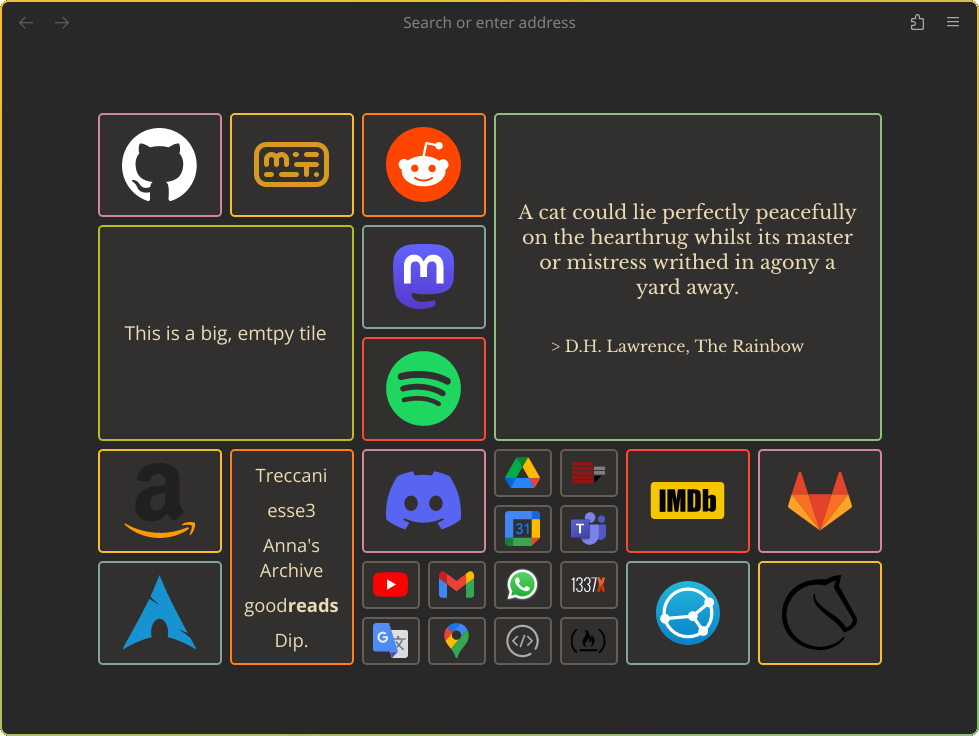
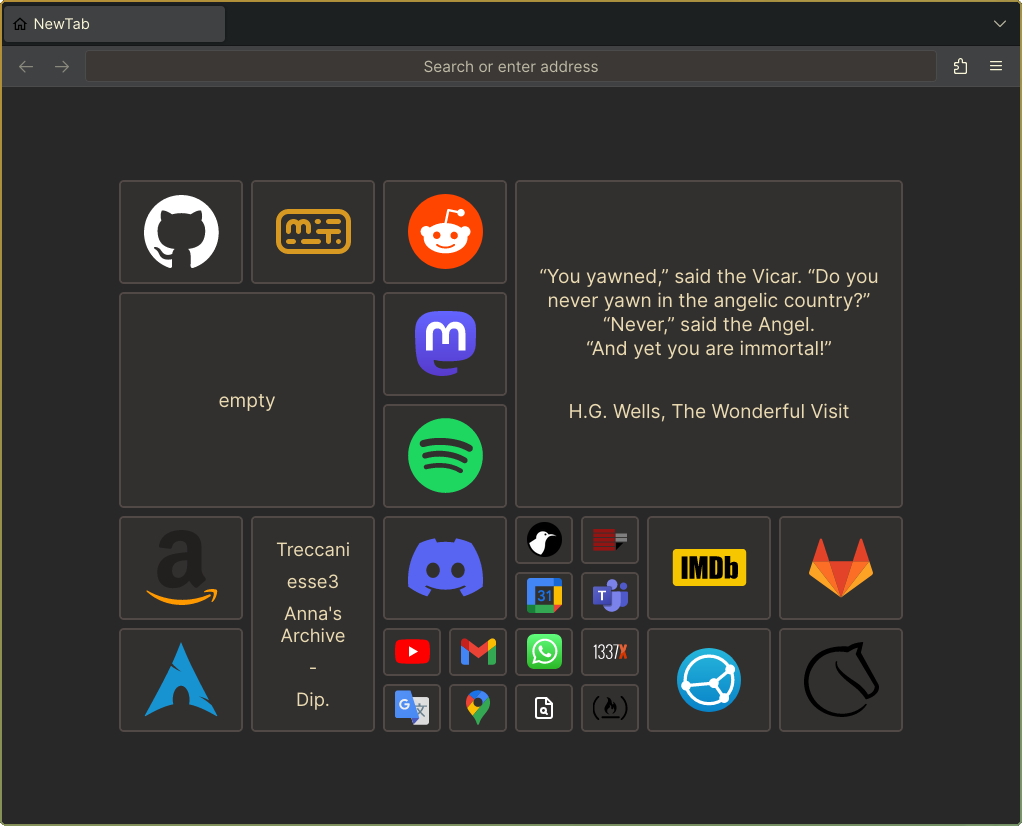
Follow system theme

diff --git a/src/style.css b/src/style.css
@@ -1,11 +1,26 @@
-* {
-  --bg:                  #282828; /* bg */
-  --bg-element:          #32302f; /* bg0_s */
-  --bg-element-hover:    #3c3836; /* bg2 */
-  --text:                #ebdbb2; /* fg */
-
+[data-theme="dark"] {
+  --bg:                  #282828;
+  --bg-element:          #32302f;
+  --bg-element-hover:    #3c3836;
+  --text:                #ebdbb2;
   --tile-border-hover:   #8ec07c;
-  --tile-border:         #665c54;
+  --tile-border:         #504945;
+
+  --github-icon-filter: invert(94%) sepia(0%) saturate(24%) hue-rotate(360deg) brightness(104%) contrast(107%);
+}
+
+[data-theme="light"] {
+  --bg:                  #fbf1c7;
+  --bg-element:          #f2e5bc;
+  --bg-element-hover:    #ebdbb2;
+  --text:                #3c3836;
+  --tile-border-hover:   #8f3f71;
+  --tile-border:         #d5c4a1;
+
+  --github-icon-filter: invert(14%) sepia(20%) saturate(407%) hue-rotate(172deg) brightness(95%) contrast(94%);
+}
+
+* {
 
   user-select: none;
   border-radius: 3px;
@@ -77,7 +92,7 @@ body {
   background: var(--bg-element);
   box-shadow: 0 0 0 var(--bordsize) var(--tile-border);
 
-  transition: 0.2s ease-in-out;
+  transition: 0.2s ease;
   &:hover {
     box-shadow: 0 0 0 var(--bordsize) var(--tile-border-hover);
     background: var(--bg-element-hover);
@@ -141,24 +156,27 @@ li {
   max-width: 75px
 }
 
-/* Define the position of the small tiles groups */
-#gugol { grid-column: 3 / 4; grid-row: 5 / 6; }
-#misc { grid-column: 4 / 5; grid-row: 5 / 6; }
-#university { grid-column: 4 / 5; grid-row: 4 / 5; }
+#github>img, #devdocs>img {
+  filter: var(--github-icon-filter);
+}
 
-#monkeytype { grid-column: 2 / 3; grid-row: 1 / 2; }
-#reddit { grid-column: 3 / 4; grid-row: 1 / 2; }
-#discord { grid-column: 3 / 4; grid-row: 4 / 5; }
-#arch { grid-column: 1 / 2; grid-row: 5 / 6; }
-#freecodecamp { grid-column: 3 / 4; grid-row: 2 / 3; }
-#spotify { grid-column: 3 / 4; grid-row: 3 / 4; }
-#github { grid-column: 1 / 2; grid-row: 1 / 2; }
-#amazon { grid-column: 1 / 2; grid-row: 4 / 5; }
-#imdb { grid-column: 5 / 6; grid-row: 4 / 5; }
-#lichess-org { grid-column: 6 / 7; grid-row: 5 / 6; }
-#gitlab { grid-column: 6 / 7; grid-row: 4 / 5; }
-#syncthing { grid-column: 5 / 6; grid-row: 5 / 6; }
-#mastodon { grid-column: 3 / 4; grid-row: 2 / 3; }
+#gugol         { grid-column: 3 / 4; grid-row: 5 / 6; }
+#misc          { grid-column: 4 / 5; grid-row: 5 / 6; }
+#university    { grid-column: 4 / 5; grid-row: 4 / 5; }
+
+#monkeytype    { grid-column: 2 / 3; grid-row: 1 / 2; }
+#reddit        { grid-column: 3 / 4; grid-row: 1 / 2; }
+#discord       { grid-column: 3 / 4; grid-row: 4 / 5; }
+#arch          { grid-column: 1 / 2; grid-row: 5 / 6; }
+#freecodecamp  { grid-column: 3 / 4; grid-row: 2 / 3; }
+#spotify       { grid-column: 3 / 4; grid-row: 3 / 4; }
+#github        { grid-column: 1 / 2; grid-row: 1 / 2; }
+#amazon        { grid-column: 1 / 2; grid-row: 4 / 5; }
+#imdb          { grid-column: 5 / 6; grid-row: 4 / 5; }
+#lichess-org   { grid-column: 6 / 7; grid-row: 5 / 6; }
+#gitlab        { grid-column: 6 / 7; grid-row: 4 / 5; }
+#syncthing     { grid-column: 5 / 6; grid-row: 5 / 6; }
+#mastodon      { grid-column: 3 / 4; grid-row: 2 / 3; }
 
 @media (max-width: 800px), (max-height: 550px) {
   #layout {

diff --git a/src/index.html b/src/index.html
@@ -7,6 +7,7 @@
     <title>NewTab</title>
     <link rel="stylesheet" type="text/css" href="style.css" media="screen" />
     <script src="quote.js" type="text/javascript" defer></script>
+    <script src="theme.js" type="text/javascript" defer></script>
   </head>
 
   <body>
@@ -40,7 +41,7 @@
         <a class="tile" href="https://1337x.to/home/">
           <img class="small-image" src="icons/1337x.svg">
         </a>
-        <a class="tile" href="https://devdocs.io/">
+        <a class="tile" id="devdocs" href="https://devdocs.io/">
           <img class="small-image" src="icons/documentation.svg">
         </a>
         <a class="tile" href="https://www.freecodecamp.org/learn/">

diff --git a/src/theme.js b/src/theme.js
@@ -1,0 +1,10 @@
+const isSystemDark = window.matchMedia("(prefers-color-scheme: dark)");
+
+setTheme();
+
+function setTheme() {
+  const theme = isSystemDark.matches ? "dark" : "light";
+  document.documentElement.setAttribute("data-theme", theme);
+}
+
+isSystemDark.addEventListener("change", () => setTheme());
